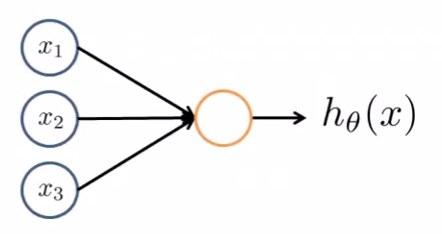
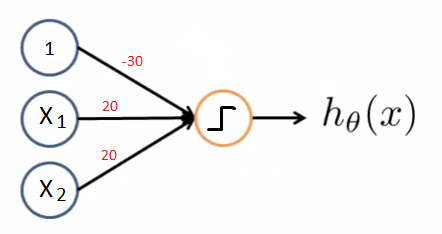
Decided to start with how a single neuron works. Annotated the image.

diff --git a/CS36110/ANN/ArtificialNeuralNetworks.md b/CS36110/ANN/ArtificialNeuralNetworks.md
@@ -1,3 +1,4 @@
 #Artificial Neural Networks
 
-##Activation Functions (to compute h\subscript{$\theta$}($\{x}$))
+##Single Neuron to compute AND
+![Neuron](ann.png)
